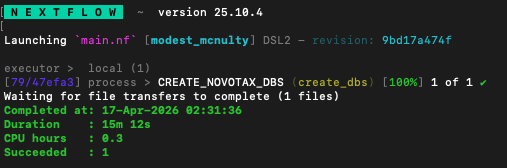
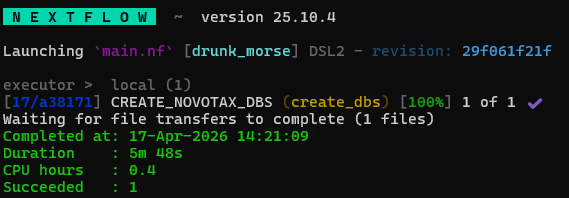
example images

Changed region(s): [[0.0, 0.3869, 0.9763, 0.9821], [0.0, 0.2083, 0.9763, 0.2976], [0.0, 0.0298, 0.5917, 0.1488]]

diff --git a/docs/installation.md b/docs/installation.md
@@ -199,7 +199,6 @@ nextflow run main.nf --create_dbs novotax_db_r226 --gtdb_protein_reps /data/dbs/
 Example output on success:  
 <img src="../assets/images/nextflow_db_creation_output.png" alt="Nextflow database creation output example">
 
-
 ## 5. Test with example data
 If the environment is working correctly, you can run a short demo using example data. Doing this will also download all the containers required to run NovoTax, making subsequent runs quicker to run.
 
@@ -210,6 +209,9 @@ Run NovoTax on the example data using the profile that matches your environment
 ```bash
 nextflow run main.nf -profile apptainer_wsl_gpu --input examples/samples.tsv --output_dir example_results/ --gtdb_protein_reps /data/dbs/gtdb/release226/protein_faa_reps --gtdb_db_dir novotax_db_r226
 ```
+
+<img src="../assets/images/nextflow_novotax_output.png" alt="Nextflow NovoTax output example">
+
 **Note that the first NovoTax run will take a longer time due to first having to retrieve all the containers. Expect the download to take 10-15 minutes and then the demo files takes roughly ~5 minutes to run on a modern desktop GPU.**
 
 The results will be written to the folder `demo_results/`. For more details on the outputs generated by NovoTax, please read the [output section](usage.md#output) of the documentation.
